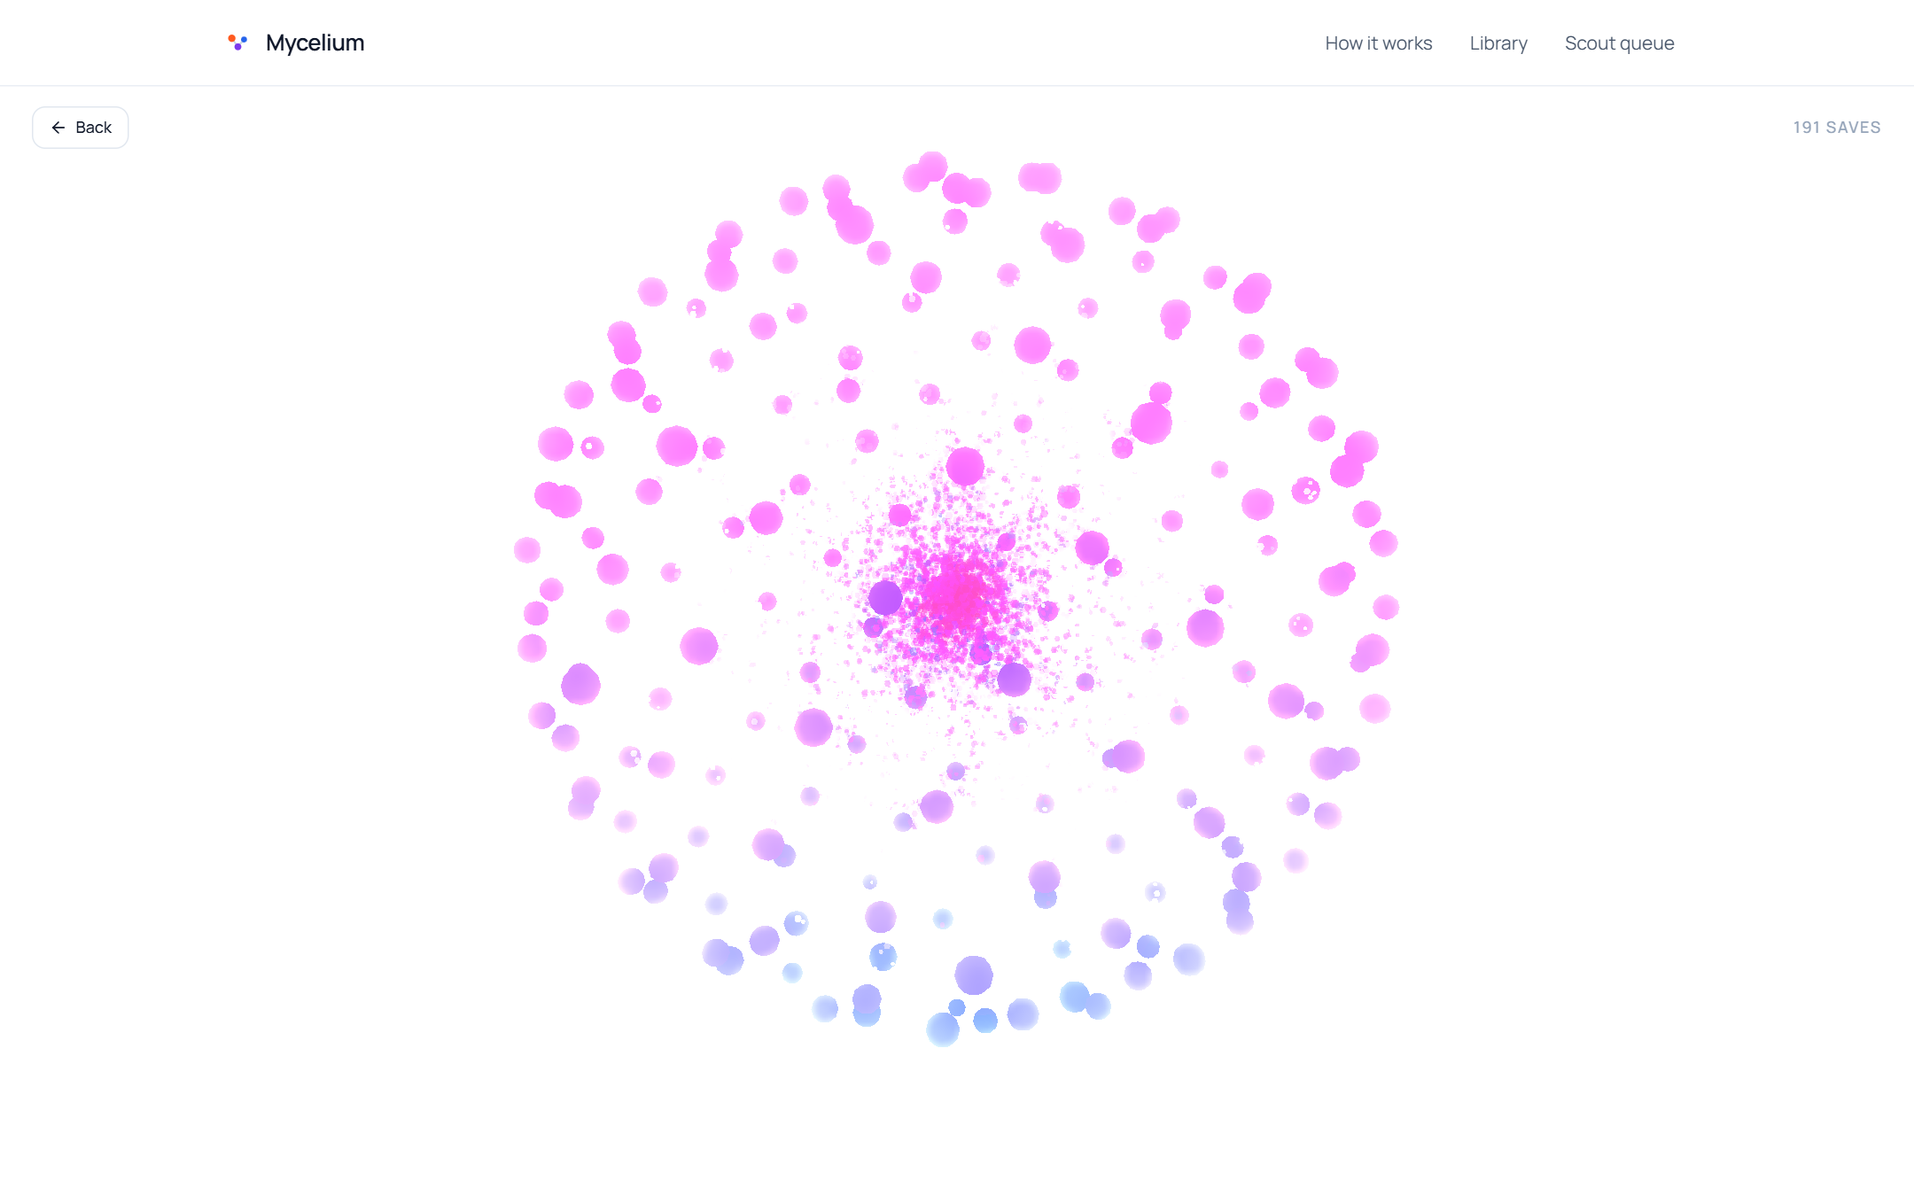
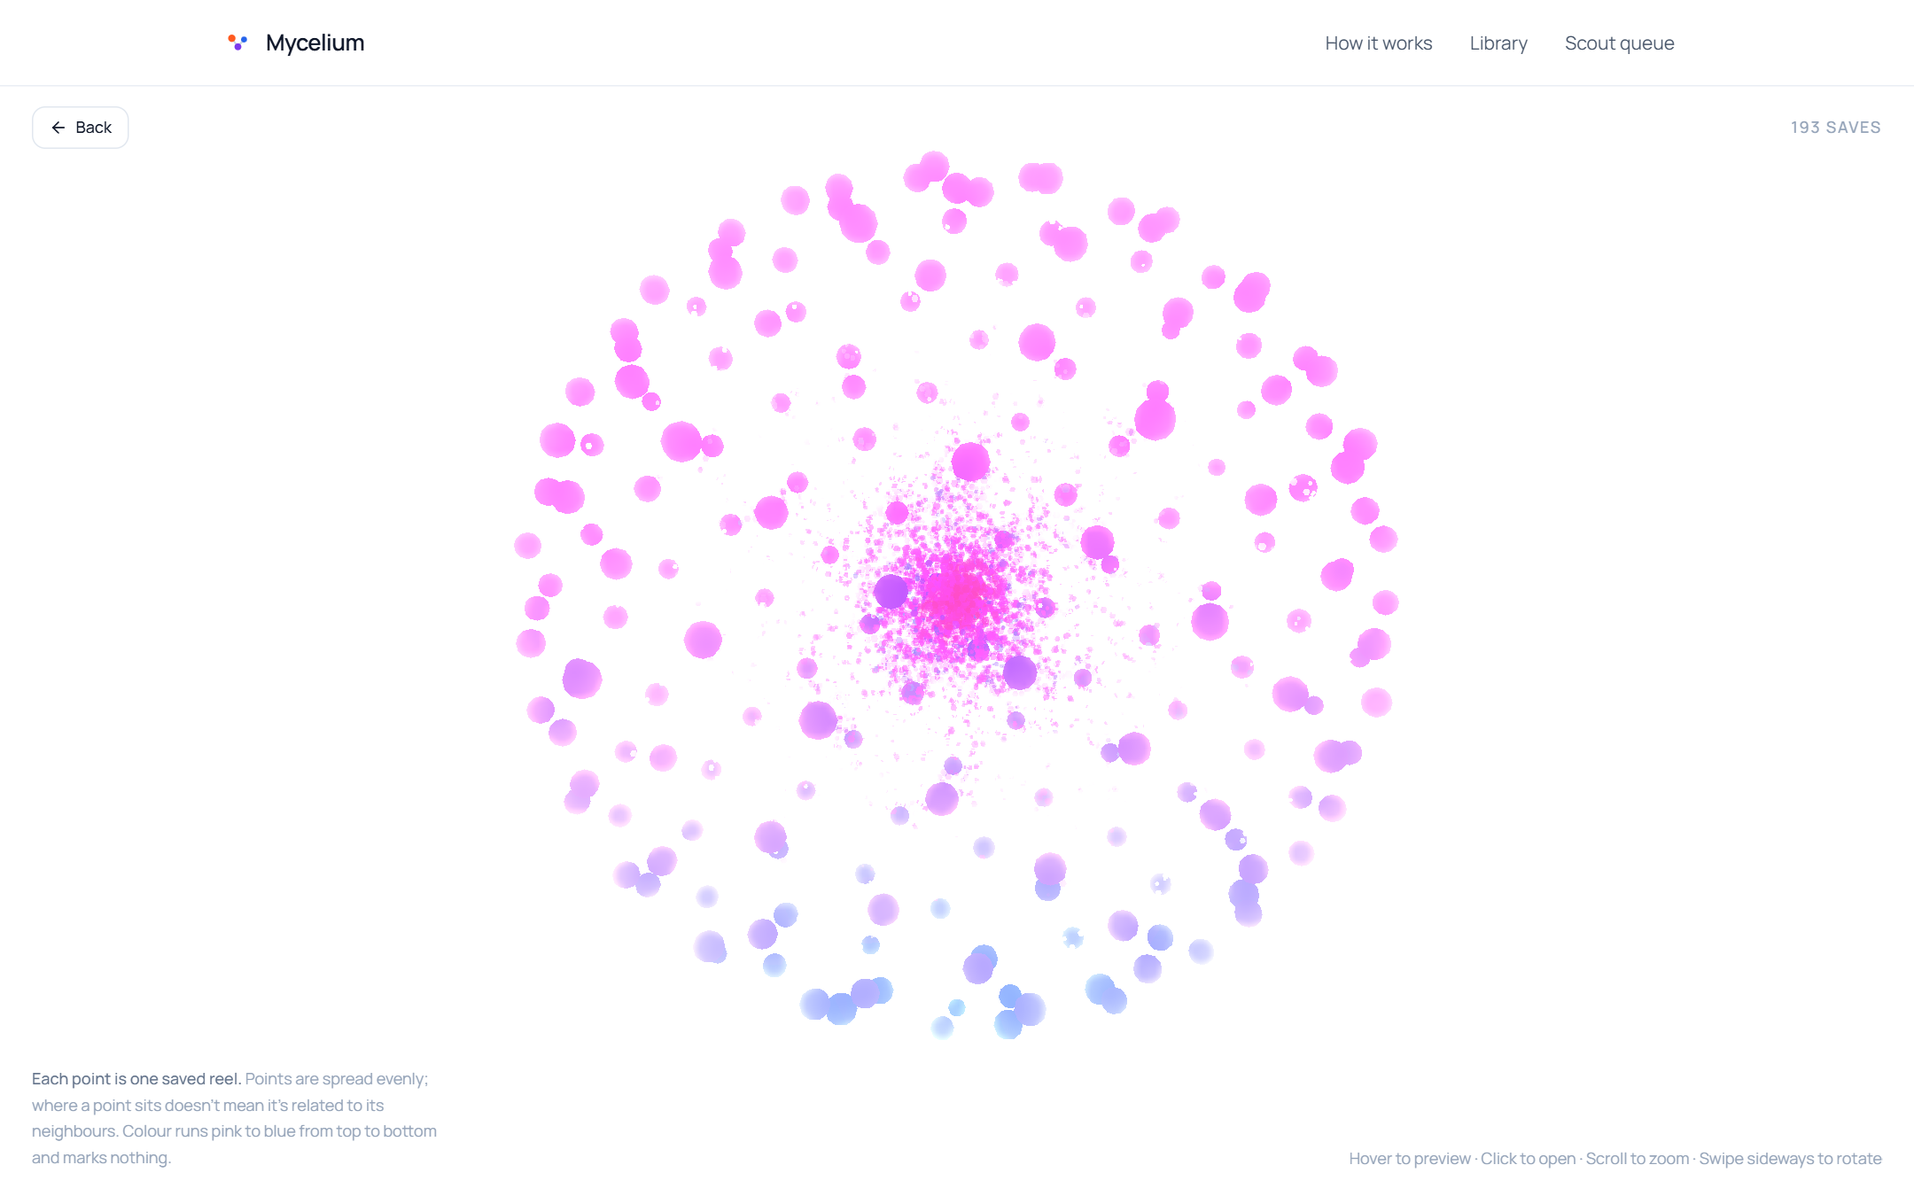
copy: rewrite site copy for clarity, and say what the graph is
Approved copy pass across every public page. The register stays neutral
and product-voice (the README's first person is for developers reading
the repo; the site is a recruiter's likely first impression). Claims are
now limited to what the code actually does -- "self-organizing,
self-improving" is replaced by the literal steps.

Two of these are factual fixes, not taste:

  * The Library said "newest and highest-value first". The endpoint sorts
    by value_score first, then posted_at, so it never returned that
    order. It now says "highest value first", which is the real sort.
  * /graph shipped with NO explanation. Nothing said a point was one
    reel, nothing listed the controls, and nothing said that position
    carries no meaning -- which matters, because an evenly spread ball of
    points reads as a relationship graph and is not one. Two small muted
    corner captions now say all three, without a panel to dismiss.

Also corrected: the site called the Scout queue an "implementation
queue", which blurred it with the Claude-ranked Implementation Scout in
the README. They are different things. The public queue is a rule:
value_score >= 4 AND a real suggested_action, sorted by score then
priority. The page now states that rule outright.

Elsewhere: metadata and OG tags describe the pipeline instead of the
tagline; stat labels name what they count ("Reels processed", "Tools,
people & products named"); the three feature cards describe the actual
[…]

diff --git a/web/src/app/page.tsx b/web/src/app/page.tsx
@@ -133,19 +133,20 @@ export default function LandingPage() {
           <BlurFade className="mx-auto max-w-3xl text-center">
             <div className="mb-6 inline-flex items-center gap-2 rounded-full border border-slate-200 bg-white/70 px-3.5 py-1.5 text-xs font-medium text-slate-600 shadow-sm">
               <Sparkles className="h-3.5 w-3.5 text-sphere-pink" />
-              Live from a real, continuously-growing knowledge base
+              Real data, from a pipeline that runs every day
             </div>
             <h1 className="text-balance text-4xl font-semibold leading-[1.08] tracking-tight text-slate-900 sm:text-6xl">
-              Mycelium turns scattered saved content into a{" "}
+              Saved Instagram reels, turned into{" "}
               <span className="bg-gradient-to-r from-sphere-pink via-sphere-purple to-sphere-blue bg-clip-text text-transparent">
-                self-organizing, self-improving
-              </span>{" "}
-              knowledge network.
+                structured, searchable notes
+              </span>
+              , automatically.
             </h1>
             <p className="mx-auto mt-6 max-w-2xl text-balance text-lg leading-relaxed text-slate-600">
-              Everything you save gets read, understood, categorized and connected —
-              automatically. What comes out is not a folder of links. It is a map that
-              knows what it contains, and tells you what to do next.
+              Share a reel from a phone and a backend pipeline takes over. It downloads
+              the video and uses Gemini to transcribe it and pull out the main point, the
+              steps and the tools mentioned. The result is filed in Notion. This site is a
+              public, read-only view of that database.
             </p>
             <div className="mt-9 flex flex-wrap items-center justify-center gap-3">
               <Link href="/how-it-works">
@@ -185,7 +186,7 @@ export default function LandingPage() {
               the slot, not by the slot itself arriving late. */}
           <div className="mt-8 text-center">
             <h2 className="text-sm font-medium uppercase tracking-widest text-slate-400">
-              The live graph
+              The graph
             </h2>
             {/* Copy rewritten to match what this section now IS. It used to
                 say "drag, scroll, or click a category to explore", which
@@ -194,7 +195,8 @@ export default function LandingPage() {
                 deliberately does not have, on a visual that is now a door
                 rather than the room. */}
             <p className="mt-1.5 text-sm text-slate-500">
-              Every save is a point on it — one particle per reel, nothing invented.
+              Each point is one saved reel. Open it to hover over any point and read what was
+              extracted from it.
             </p>
           </div>
 
@@ -222,14 +224,14 @@ export default function LandingPage() {
             <div className="mt-6 flex flex-col items-center gap-3">
               <Link href="/graph">
                 <Button size="lg">
-                  View graph
+                  Explore the graph
                   <ArrowRight className="h-4 w-4" />
                 </Button>
               </Link>
               <p className="text-xs text-slate-400">
                 {stats.total_reels > 0
-                  ? `${stats.total_reels.toLocaleString()} saves, one particle each`
-                  : "One particle per save"}
+                  ? `${stats.total_reels.toLocaleString()} reels · hover to preview, click to open`
+                  : "Hover to preview, click to open"}
               </p>
             </div>
           </div>
@@ -241,15 +243,15 @@ export default function LandingPage() {
         <div className="mx-auto max-w-6xl px-6 py-14">
           <BlurFade>
             <p className="mb-8 text-center text-sm font-medium uppercase tracking-widest text-slate-400">
-              The network right now
+              Current totals, counted live from the database
             </p>
           </BlurFade>
           <dl className="grid grid-cols-2 gap-y-10 md:grid-cols-4">
             {[
-              { label: "Saves organized", value: stats.total_reels },
-              { label: "Distinct topics", value: stats.total_topics },
-              { label: "Tools & entities named", value: stats.total_entities },
-              { label: "Actionable next steps", value: stats.actionable_items },
+              { label: "Reels processed", value: stats.total_reels },
+              { label: "Topic tags in use", value: stats.total_topics },
+              { label: "Tools, people & products named", value: stats.total_entities },
+              { label: "Saves with a next step", value: stats.actionable_items },
             ].map((stat, i) => (
               <BlurFade key={stat.label} delay={0.06 * i}>
                 <div className="text-center">
@@ -268,10 +270,10 @@ export default function LandingPage() {
       <section className="mx-auto max-w-6xl px-6 py-24">
         <BlurFade className="mx-auto max-w-2xl text-center">
           <h2 className="text-balance text-3xl font-semibold tracking-tight text-slate-900 sm:text-4xl">
-            A saved link is a dead end. A network is a map.
+            What happens to each save
           </h2>
           <p className="mt-4 text-lg leading-relaxed text-slate-600">
-            Three things happen automatically that a bookmarks folder will never do.
+            Three steps run on every reel, with no manual tagging.
           </p>
         </BlurFade>
 
@@ -283,16 +285,16 @@ export default function LandingPage() {
           {[
             {
               icon: Layers,
-              title: "It organizes itself",
-              body: "Every save is read and filed against a shared vocabulary — not whatever tag came to mind that day. The taxonomy converges instead of sprawling.",
+              title: "Tagged from a fixed vocabulary",
+              body: "Topics come from a curated taxonomy instead of being invented per save, so the same idea gets the same tag every time.",
               accent: "#FF5A1F",
               tint: "bg-orange-50 text-orange-600",
               shadow: "hover:shadow-[0_16px_40px_-20px_rgba(255,90,31,0.45)]",
             },
             {
               icon: Sparkles,
-              title: "It improves itself",
-              body: "New saves are matched against everything already there. Near-duplicates get flagged, related items get linked, and thin entries get re-processed later.",
+              title: "Compared with every earlier save",
+              body: "Each reel is turned into an embedding and compared with the rest. Near-duplicates are flagged, the closest matches are linked as related saves, and saves that failed to process are retried later.",
               accent: "#7C3AED",
               tint: "bg-violet-50 text-violet-600",
               shadow: "hover:shadow-[0_16px_40px_-20px_rgba(124,58,237,0.45)]",
@@ -300,8 +302,8 @@ export default function LandingPage() {
             },
             {
               icon: Compass,
-              title: "It tells you what to do",
-              body: "Each item carries one concrete next step. The highest-value ones get promoted into a queue, so the network hands you work instead of a reading list.",
+              title: "Given a next step",
+              body: "Where the content supports it, extraction adds one concrete action. Saves rated 4 or 5 for value that have one are listed in the Scout queue.",
               accent: "#2563EB",
               tint: "bg-blue-50 text-blue-600",
               shadow: "hover:shadow-[0_16px_40px_-20px_rgba(37,99,235,0.45)]",
@@ -328,10 +330,10 @@ export default function LandingPage() {
           <div className="mx-auto max-w-6xl px-6 py-24">
             <BlurFade className="mx-auto max-w-2xl text-center">
               <h2 className="text-balance text-3xl font-semibold tracking-tight text-slate-900 sm:text-4xl">
-                What&apos;s actually in there
+                What&apos;s in the database
               </h2>
               <p className="mt-4 text-lg text-slate-600">
-                The biggest clusters in the network today — every number is live.
+                The largest categories and most-used topic tags, counted live.
               </p>
             </BlurFade>
 
@@ -387,12 +389,12 @@ export default function LandingPage() {
             <div className="relative">
               <h2 className="text-balance text-3xl font-semibold tracking-tight text-white sm:text-4xl">
                 {stats.actionable_items > 0
-                  ? `${stats.actionable_items} things worth doing, already sorted.`
-                  : "The network sorts itself. You just read the top."}
+                  ? `${stats.actionable_items} saves come with a concrete next step.`
+                  : "Saves with a next step are listed in the Scout queue."}
               </h2>
               <p className="mx-auto mt-4 max-w-xl text-balance text-lg text-slate-300">
-                The Scout queue surfaces the highest-value saves with a concrete next step
-                attached — so the pile becomes a plan.
+                The Scout queue lists the ones rated 4 or 5 out of 5 for value, highest
+                first, each with its suggested action.
               </p>
               <Link href="/scout" className="mt-8 inline-block">
                 <Button size="lg" className="bg-white text-slate-900 hover:bg-slate-100">

diff --git a/web/src/app/scout/scout-client.tsx b/web/src/app/scout/scout-client.tsx
@@ -19,18 +19,19 @@ export function ScoutClient() {
     <div className="mx-auto max-w-4xl px-6 py-16">
       <BlurFade>
         <p className="mb-3 text-sm font-medium uppercase tracking-widest text-slate-400">
-          Implementation queue
+          Scout queue
         </p>
         <h1 className="text-balance text-4xl font-semibold tracking-tight text-slate-900">
-          What&apos;s worth actually doing
+          Saves worth acting on
         </h1>
         <p className="mt-4 max-w-2xl text-lg leading-relaxed text-slate-600">
-          Not a reading list. These are the saves that scored highest on real value and
-          carry a concrete next step — ranked, out of{" "}
+          Saves rated 4 or 5 out of 5 for value that also have a suggested action, out
+          of{" "}
           <span className="font-medium tabular-nums text-slate-900">
             {total_reels.toLocaleString()}
           </span>{" "}
-          in the network.
+          in total. Sorted by value score, then priority. Both are assigned by the AI
+          extraction step, not by hand.
         </p>
       </BlurFade>
 
@@ -45,9 +46,10 @@ export function ScoutClient() {
       ) : items.length === 0 ? (
         <BlurFade delay={0.1}>
           <div className="mt-12 rounded-2xl border border-dashed border-slate-200 py-20 text-center">
-            <p className="text-lg font-medium text-slate-900">The queue is clear</p>
+            <p className="text-lg font-medium text-slate-900">Nothing qualifies yet</p>
             <p className="mt-2 text-slate-500">
-              Nothing is currently ranked high enough to surface here.
+              A save appears here once it is rated 4 or higher for value and has a
+              suggested action.
             </p>
           </div>
         </BlurFade>

diff --git a/web/src/app/library/library-client.tsx b/web/src/app/library/library-client.tsx
@@ -80,10 +80,19 @@ export function LibraryClient() {
     <div className="mx-auto max-w-6xl px-6 py-16">
       <BlurFade>
         <h1 className="text-4xl font-semibold tracking-tight text-slate-900">Library</h1>
+        {/* "highest value first" is the literal sort the API applies
+            (value_score, then posted_at, both descending). The previous
+            "newest and highest-value first" described an order the endpoint
+            never returned. */}
         <p className="mt-3 text-lg text-slate-600">
           {data.total.toLocaleString()}
-          {q || category || minValue > 1 ? " matching " : " "}
-          saves, newest and highest-value first.
+          {q || category || minValue > 1 ? " matching reels" : " saved reels"}, highest
+          value first.
+          {q || category || minValue > 1 ? null : (
+            <span className="mt-1 block text-base text-slate-500">
+              Search covers titles, summaries, topics and named tools.
+            </span>
+          )}
         </p>
       </BlurFade>
 
@@ -106,8 +115,8 @@ export function LibraryClient() {
       ) : data.items.length === 0 ? (
         <BlurFade delay={0.1}>
           <div className="mt-16 rounded-2xl border border-dashed border-slate-200 py-20 text-center">
-            <p className="text-lg font-medium text-slate-900">Nothing matches that yet</p>
-            <p className="mt-2 text-slate-500">Try a broader search or clear the filters.</p>
+            <p className="text-lg font-medium text-slate-900">No reels match</p>
+            <p className="mt-2 text-slate-500">Try a broader search, or clear the filters.</p>
             <Link href="/library" className="mt-6 inline-block">
               <Button variant="outline">Clear filters</Button>
             </Link>

diff --git a/web/src/app/graph/graph-client.tsx b/web/src/app/graph/graph-client.tsx
@@ -197,6 +197,32 @@ export function GraphClient() {
         </div>
       ) : null}
 
+      {/* WHAT AM I LOOKING AT. The sphere shipped with no explanation at all:
+          nothing said a point was one reel, nothing said the controls
+          existed, and nothing said that where a point sits carries no
+          meaning -- which matters, because an evenly-spread ball of points
+          looks exactly like a relationship graph and is not one.
+
+          Deliberately two small muted captions in the corners rather than a
+          panel or an overlay: the answer has to be available without
+          competing with the thing it describes, and without needing to be
+          dismissed before the view can be used.
+
+          Only rendered for the sphere. The mobile list explains itself. */}
+      {canRender === true && !loading && !error ? (
+        <>
+          <p className="pointer-events-none absolute bottom-5 left-6 z-20 max-w-xs text-xs leading-relaxed text-slate-400">
+            <span className="font-medium text-slate-500">Each point is one saved reel.</span>{" "}
+            Points are spread evenly; where a point sits doesn&apos;t mean it&apos;s related
+            to its neighbours. Colour runs pink to blue from top to bottom and marks
+            nothing.
+          </p>
+          <p className="pointer-events-none absolute bottom-5 right-6 z-20 hidden text-xs text-slate-400 lg:block">
+            Hover to preview · Click to open · Scroll to zoom · Swipe sideways to rotate
+          </p>
+        </>
+      ) : null}
+
       <ReelDetail reel={selectedReel} onClose={closeReel} />
     </div>
   );

diff --git a/web/src/components/site-footer.tsx b/web/src/components/site-footer.tsx
@@ -4,7 +4,7 @@ export function SiteFooter() {
   return (
     <footer className="border-t border-slate-200/70">
       <div className="mx-auto flex max-w-6xl flex-col gap-3 px-6 py-10 text-sm text-slate-500 sm:flex-row sm:items-center sm:justify-between">
-        <p>Mycelium — a self-organizing knowledge network.</p>
+        <p>Mycelium — a personal reel-to-knowledge pipeline.</p>
         {/* Admin deliberately isn't linked here -- it's operator tooling, not
             part of what a visitor evaluating the product needs to reach, and
             there's no reason to put a login surface in front of every
@@ -13,6 +13,16 @@ export function SiteFooter() {
           <Link href="/how-it-works" className="transition-colors hover:text-sphere-purple">How it works</Link>
           <Link href="/library" className="transition-colors hover:text-sphere-purple">Library</Link>
           <Link href="/scout" className="transition-colors hover:text-sphere-purple">Scout queue</Link>
+          {/* The repo is a first-class destination for this site's most likely
+              visitor: someone evaluating the work, who wants to read the code. */}
+          <a
+            href="https://github.com/GarvBardia/reelbrain"
+            target="_blank"
+            rel="noopener noreferrer"
+            className="transition-colors hover:text-sphere-purple"
+          >
+            Source on GitHub
+          </a>
         </div>
       </div>
     </footer>

diff --git a/web/src/app/layout.tsx b/web/src/app/layout.tsx
@@ -13,15 +13,15 @@ const manrope = Manrope({ subsets: ["latin"], variable: "--font-sans" });
 
 export const metadata: Metadata = {
   title: {
-    default: "Mycelium — a self-organizing knowledge network",
+    default: "Mycelium — saved reels, turned into a knowledge base",
     template: "%s · Mycelium",
   },
   description:
-    "Mycelium turns scattered saved content into a self-organizing, self-improving knowledge network.",
+    "An automation pipeline that turns saved Instagram reels into structured notes: fetched, transcribed and summarized by AI, stored in Notion, and published as a browsable graph and library.",
   openGraph: {
-    title: "Mycelium — a self-organizing knowledge network",
+    title: "Mycelium — saved reels, turned into a knowledge base",
     description:
-      "Mycelium turns scattered saved content into a self-organizing, self-improving knowledge network.",
+      "An automation pipeline that turns saved Instagram reels into structured notes: fetched, transcribed and summarized by AI, stored in Notion, and published as a browsable graph and library.",
     type: "website",
   },
 };

diff --git a/web/src/app/not-found.tsx b/web/src/app/not-found.tsx
@@ -12,14 +12,14 @@ export default function NotFound() {
     <div className="mx-auto flex max-w-xl flex-col items-center px-6 py-32 text-center">
       <p className="text-sm font-medium uppercase tracking-widest text-slate-400">404</p>
       <h1 className="mt-4 text-balance text-3xl font-semibold tracking-tight text-slate-900">
-        Nothing&apos;s connected at this address.
+        Page not found.
       </h1>
       <p className="mt-4 text-lg leading-relaxed text-slate-600">
         The page you&apos;re looking for doesn&apos;t exist, or the link is out of date.
       </p>
       <Link href="/" className="mt-8">
         <Button size="lg">
-          Back to the network
+          Back to home
           <ArrowRight className="h-4 w-4" />
         </Button>
       </Link>
